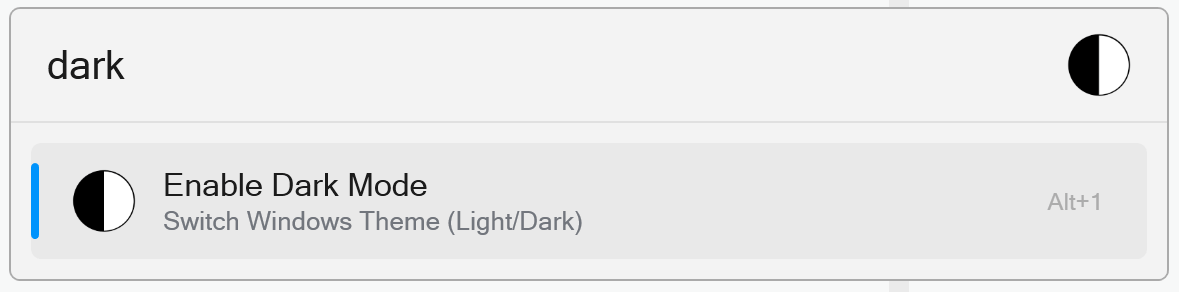
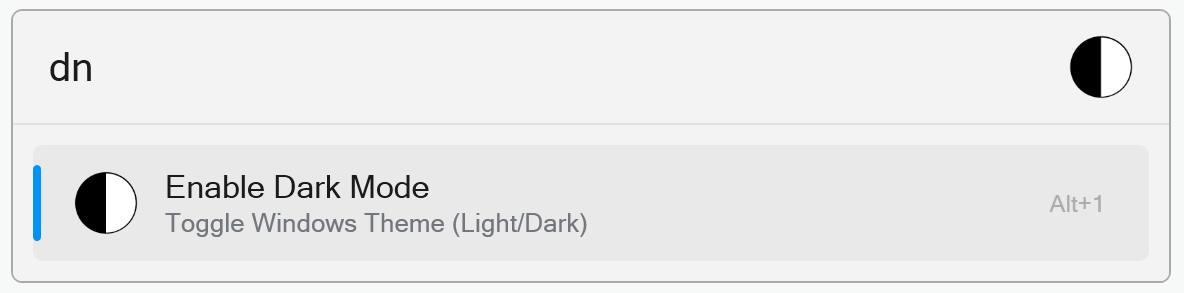
Keep just one action keyword

diff --git a/README.md b/README.md
@@ -2,24 +2,9 @@
 
 Flow Launcher plugin to toggle between light and dark mode in Windows 10/11.
 
-Install this plugin via `pm install day-night-toggle`
+- Install this plugin via `pm install DayNight Toggle` in Flow Launcher.
+- Type `dn` in Flow Launcher to switch between Light and Dark mode.
 
 ![Enable Dark Mode screenshot](./images/enable-dark-mode.png)
 
 ![Enable Light Mode screenshot](./images/enable-light-mode.png)
-
-## Usage
-
-Type any of the following commands in Flow Launcher:
-
-- `daynight`
-- `dn`
-- `day`
-- `night`
-- `light`
-- `dark`
-- `toggle`
-- `theme`
-- `th`
-- `color`
-- `colour`
